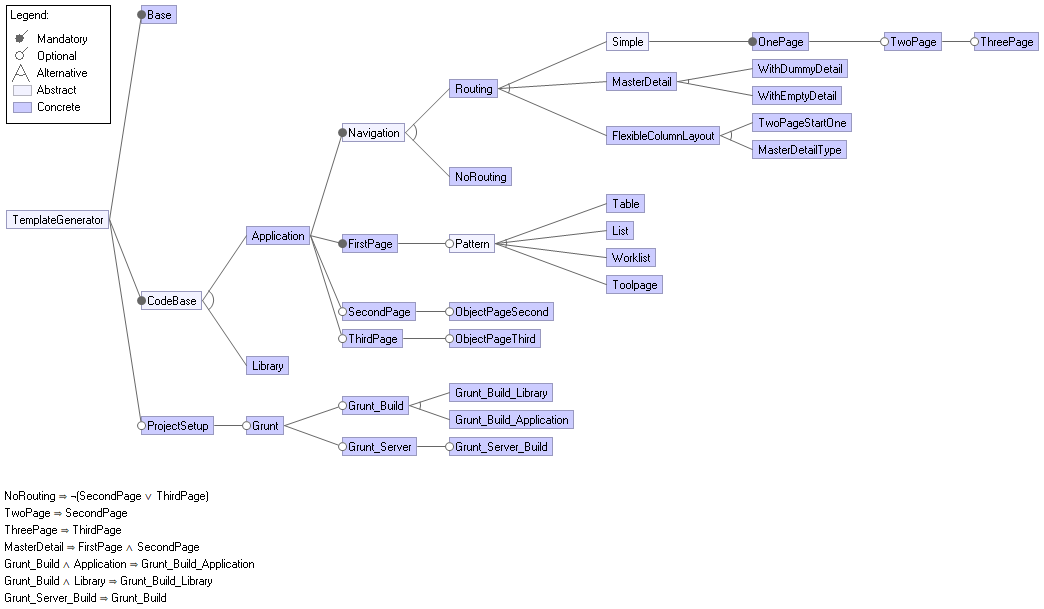
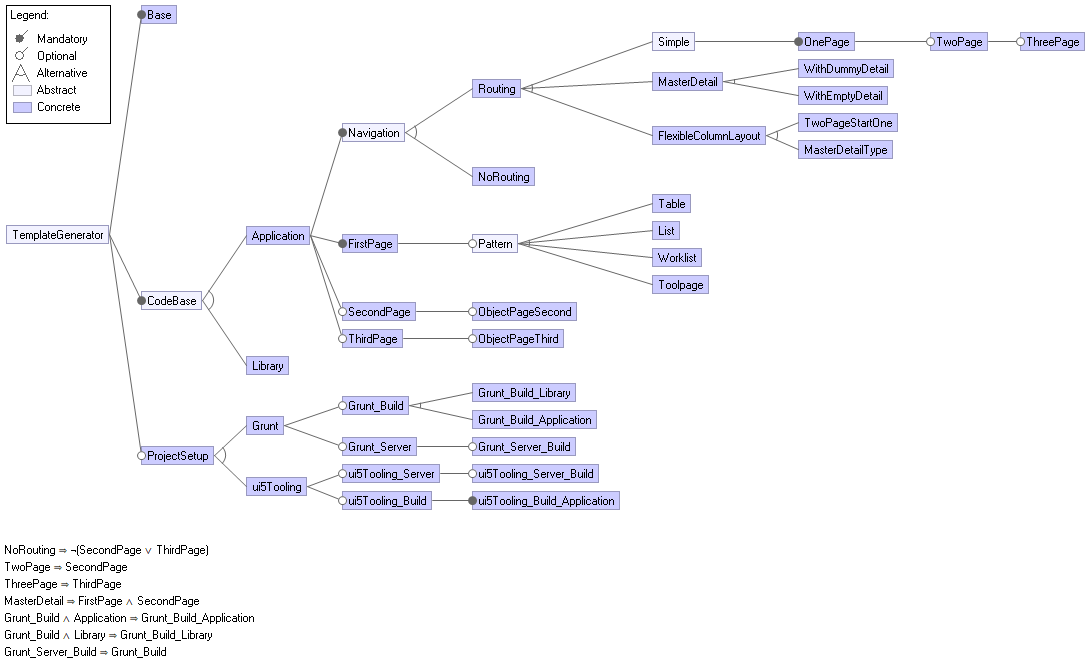
Added ui5tooling, for the project setup, additionally the yaml plugin as dependency

diff --git a/features/Application/webapp/index.html b/features/Application/webapp/index.html
@@ -9,7 +9,7 @@
 
     <script id="sap-ui-bootstrap" type="text/javascript" src="resources/sap-ui-core.js" data-sap-ui-theme="sap_belize"
         data-sap-ui-libs="sap.m" data-sap-ui-bindingSyntax="complex" data-sap-ui-compatVersion="edge"
-        data-sap-ui-preload="async" data-sap-ui-resourceroots='{"fop.template.ui5": "./"}'>
+        data-sap-ui-preload="async" data-sap-ui-resourceroots='{"<fop.template.ui5>": "./"}'>
     </script>
     <script>
         sap.ui.getCore().attachInit(function () {
@@ -19,7 +19,7 @@
             ], function (Component, ComponentContainer) {
                 sap.ui.component({
                     id: "fop.template",
-                    name: "fop.template.ui5",
+                    name: "<fop.template.ui5>",
                     async: true
                 }).then(function (oComponent) {
                     new ComponentContainer({

diff --git a/features/Grunt_Build_Library/Gruntfile.js b/features/Grunt_Build_Library/Gruntfile.js
@@ -12,7 +12,7 @@ function setupConfig(grunt) {
                 options: {
                     rootPaths: ['src'],
                     library: {
-                        name: 'fop.template.library'
+                        name: '<fop.template.library>'
                     }
                 }
             }
@@ -22,7 +22,7 @@ function setupConfig(grunt) {
                 options: {
                     resources: {
                         cwd: 'src',
-                        prefix: 'fop.template.library',
+                        prefix: '<fop.template.library>',
                         src: [
                             '**/*.js'
                         ]

diff --git a/features/Library/src/library.js b/features/Library/src/library.js
@@ -1,10 +1,10 @@
 sap.ui.define(
     [],
-    function ( /** @lends fop.template.library.prototype */ ) {
+    function ( /** @lends <fop.template.library>.prototype */ ) {
         "use strict";
 
         sap.ui.getCore().initLibrary({
-            name: "fop.template.library",
+            name: "<fop.template.library>",
             version: "0.1.0",
             dependencies: [],
             types: [],
@@ -13,7 +13,7 @@ sap.ui.define(
             elements: []
         });
 
-        return fop.template.library;
+        return <fop.template.library>;
     },
     /* bExport= */
     false

diff --git a/features/Grunt_Build_Application/Gruntfile.js b/features/Grunt_Build_Application/Gruntfile.js
@@ -6,11 +6,11 @@ function setupConfig(grunt) {
                 options: {
                     resources: {
                         cwd: 'webapp',
-                        prefix: 'fop.template.ui5'
+                        prefix: '<fop.template.ui5>'
                     },
                     dest: 'dist'
                 },
-                components: 'fop.template.ui5'
+                components: '<fop.template.ui5>'
             }
         },
         cssmin: {

diff --git a/features/Routing/webapp/Component.js b/features/Routing/webapp/Component.js
@@ -1,6 +1,6 @@
 sap.ui.define(["sap/ui/core/UIComponent"], function (UIComponent) {
     "use strict";
-    return UIComponent.extend('fop.template.ui5.Component', {
+    return UIComponent.extend('<fop.template.ui5>.Component', {
         init: function () {
             original();
             // create the views based on the url/hash

diff --git a/app.js b/app.js
@@ -20,6 +20,9 @@ const build = sConfig => {
         configs: "./configurations",
         projectRules: "./customRules",
         plugins: [{
+                name: "featurecli-plugin-yaml",
+                config: {}
+            }, {
                 name: "featurecli-plugin-xml",
                 config: {}
             },

diff --git a/features/Application/webapp/Component.js b/features/Application/webapp/Component.js
@@ -1,6 +1,6 @@
 sap.ui.define(["sap/ui/core/UIComponent"], function (UIComponent) {
     "use strict";
-    return UIComponent.extend('fop.template.ui5.Component', {
+    return UIComponent.extend('<fop.template.ui5>.Component', {
         metadata: {
             manifest: "json"
         },

diff --git a/features/Routing/webapp/controller/App.controller.js b/features/Routing/webapp/controller/App.controller.js
@@ -2,5 +2,5 @@ sap.ui.define([
     "sap/ui/core/mvc/Controller"
 ], function (Controller) {
     "use strict";
-    return Controller.extend("fop.template.ui5.controller.App", {});
+    return Controller.extend("<fop.template.ui5>.controller.App", {});
 });

diff --git a/features/ObjectPageSecond/webapp/controller/SecondPage.controller.js b/features/ObjectPageSecond/webapp/controller/SecondPage.controller.js
@@ -3,5 +3,5 @@ sap.ui.define([
 ], function (Controller) {
     'use strict';
 
-    return Controller.extend('fop.template.ui5.controller.SecondPage', {});
+    return Controller.extend('<fop.template.ui5>.controller.SecondPage', {});
 });

diff --git a/features/SecondPage/webapp/controller/SecondPage.controller.js b/features/SecondPage/webapp/controller/SecondPage.controller.js
@@ -3,5 +3,5 @@ sap.ui.define([
 ], function (Controller) {
     'use strict';
 
-    return Controller.extend('fop.template.ui5.controller.SecondPage', {});
+    return Controller.extend('<fop.template.ui5>.controller.SecondPage', {});
 });

diff --git a/features/FirstPage/webapp/controller/FirstPage.controller.js b/features/FirstPage/webapp/controller/FirstPage.controller.js
@@ -3,5 +3,5 @@ sap.ui.define([
 ], function (Controller) {
     'use strict';
 
-    return Controller.extend('fop.template.ui5.controller.FirstPage', {});
+    return Controller.extend('<fop.template.ui5>.controller.FirstPage', {});
 });
